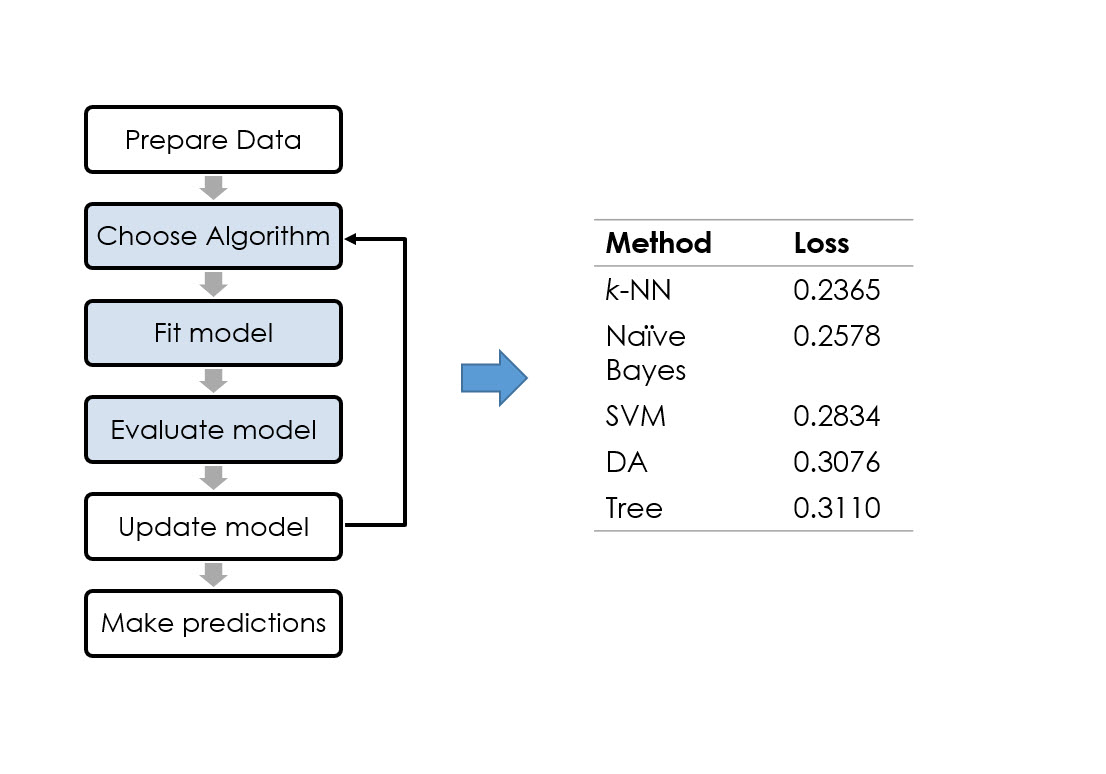
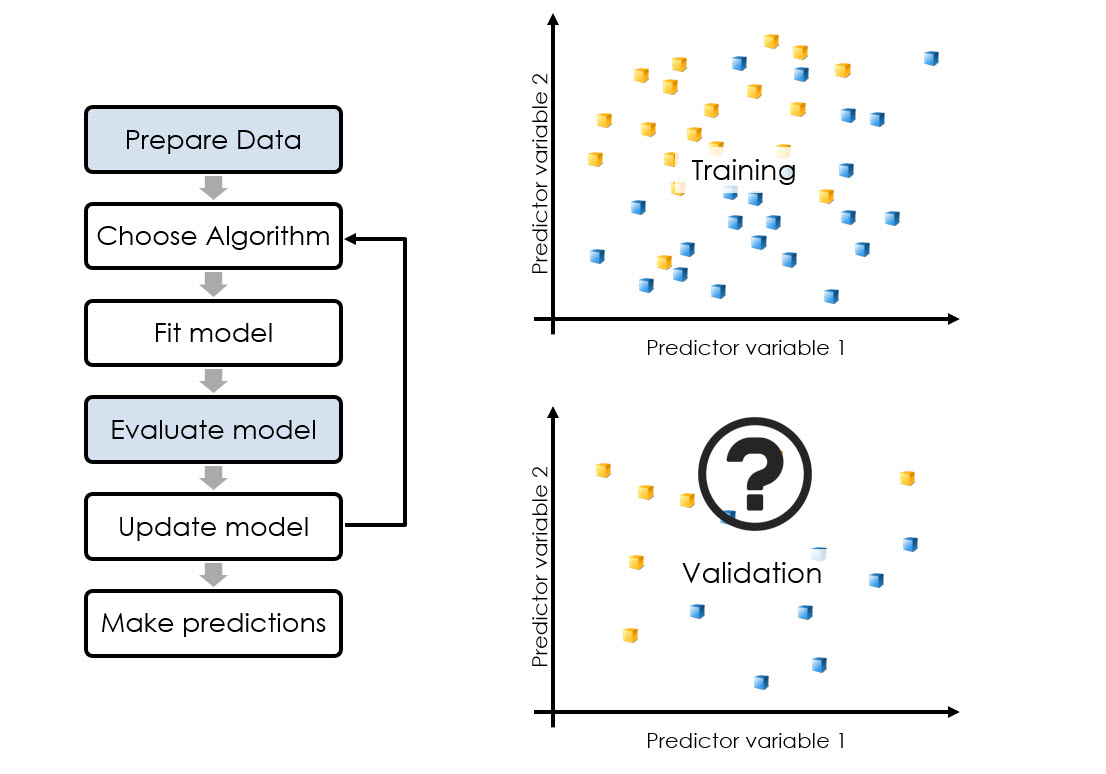
update Summary3.md

diff --git a/Summary/Summary3.md b/Summary/Summary3.md
@@ -14,4 +14,20 @@ Author: Zhaojiacheng Zhou
 
 ### Introduction
 
-!
+![slide1](src/slide1.jpg)
+保留一部分数据用于验证模型拟合新数据的效果是一个好的尝试。但不同的分割可能会导致损失估计的改变。
+
+![slide2](src/slide2.jpg)
+每个算法都有可以修改的属性值，以提高性能。如何为数据集找到最佳属性值？
+
+![slide3](src/slide4.jpg)
+更简单的模型更容易解释，计算效率更高，不容易过度拟合。如何在不牺牲性能的前提下简化模型?
+
+![slide4](src/slide4.jpg)
+这章介绍的技术：
+
+- 改进模型精度估计
+- 降低模型复杂性
+- 训练更精确的模型
+
+---
